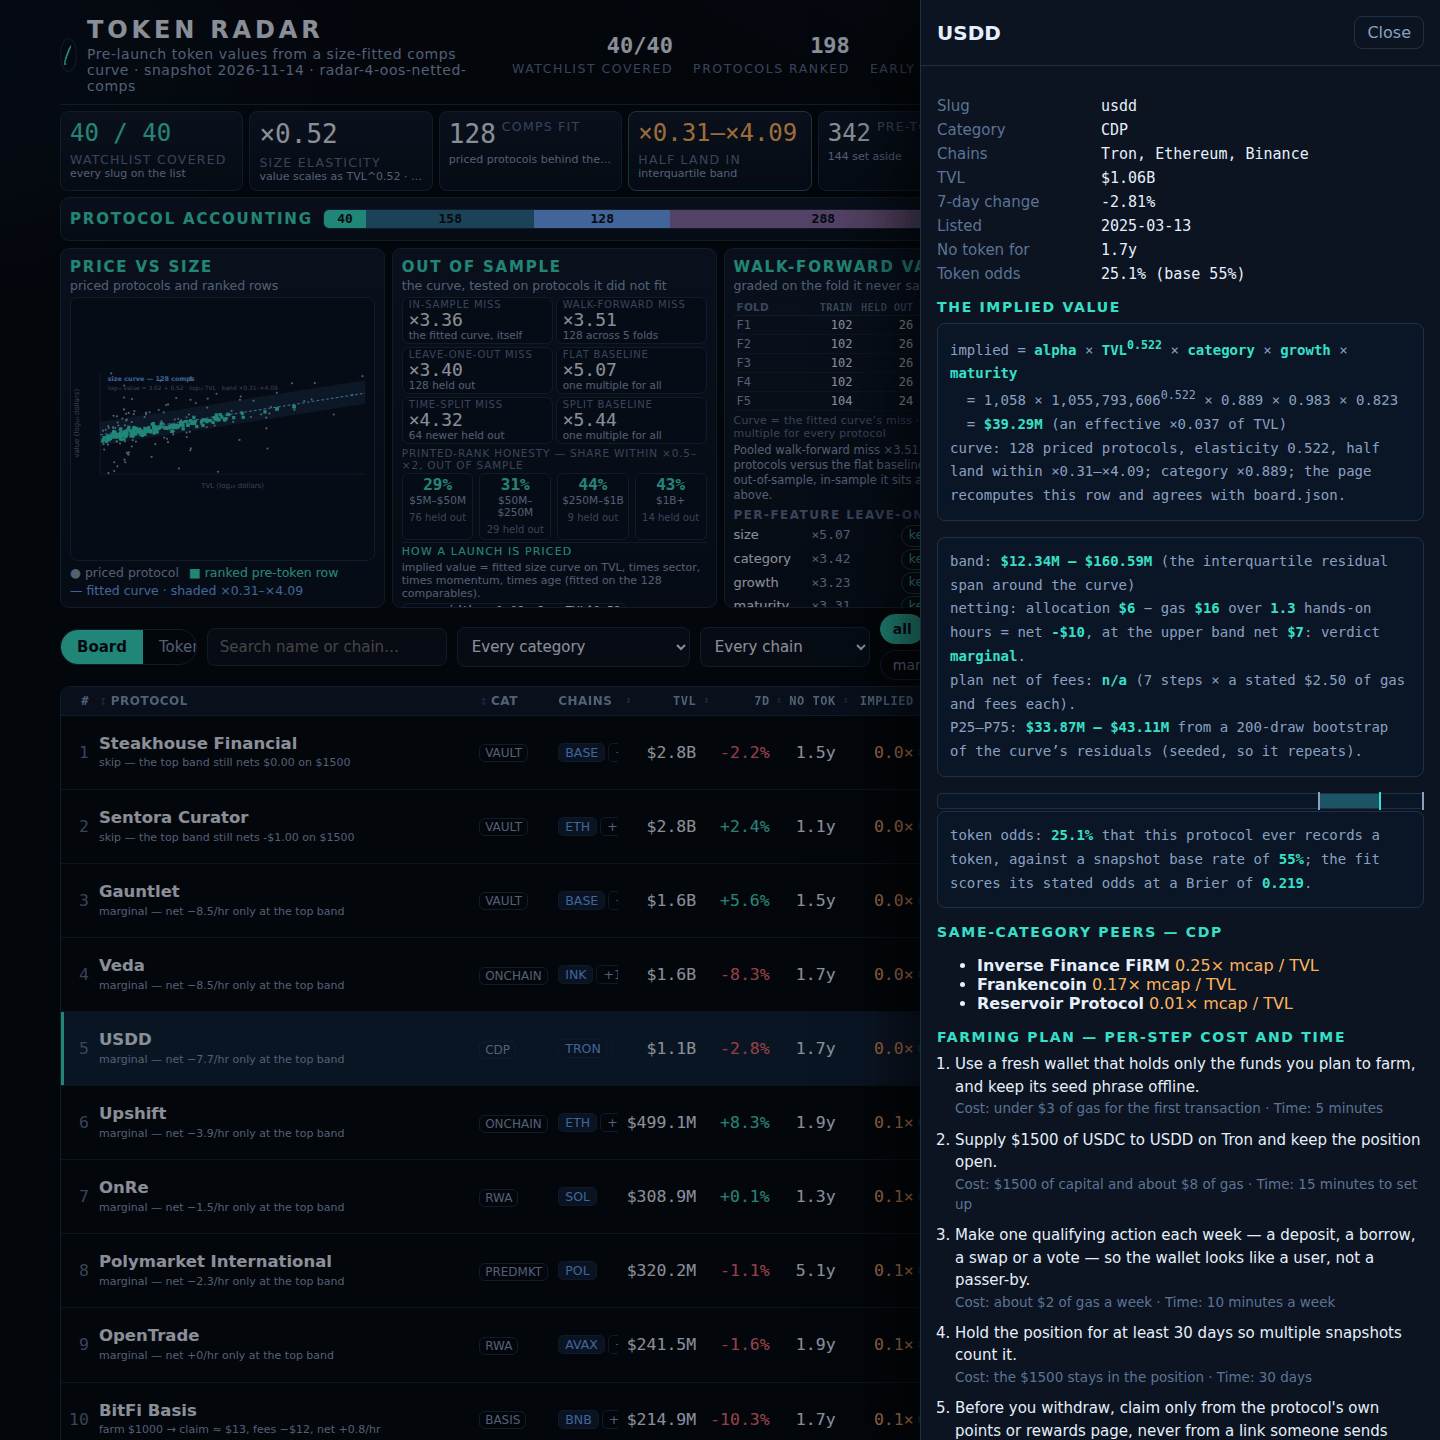
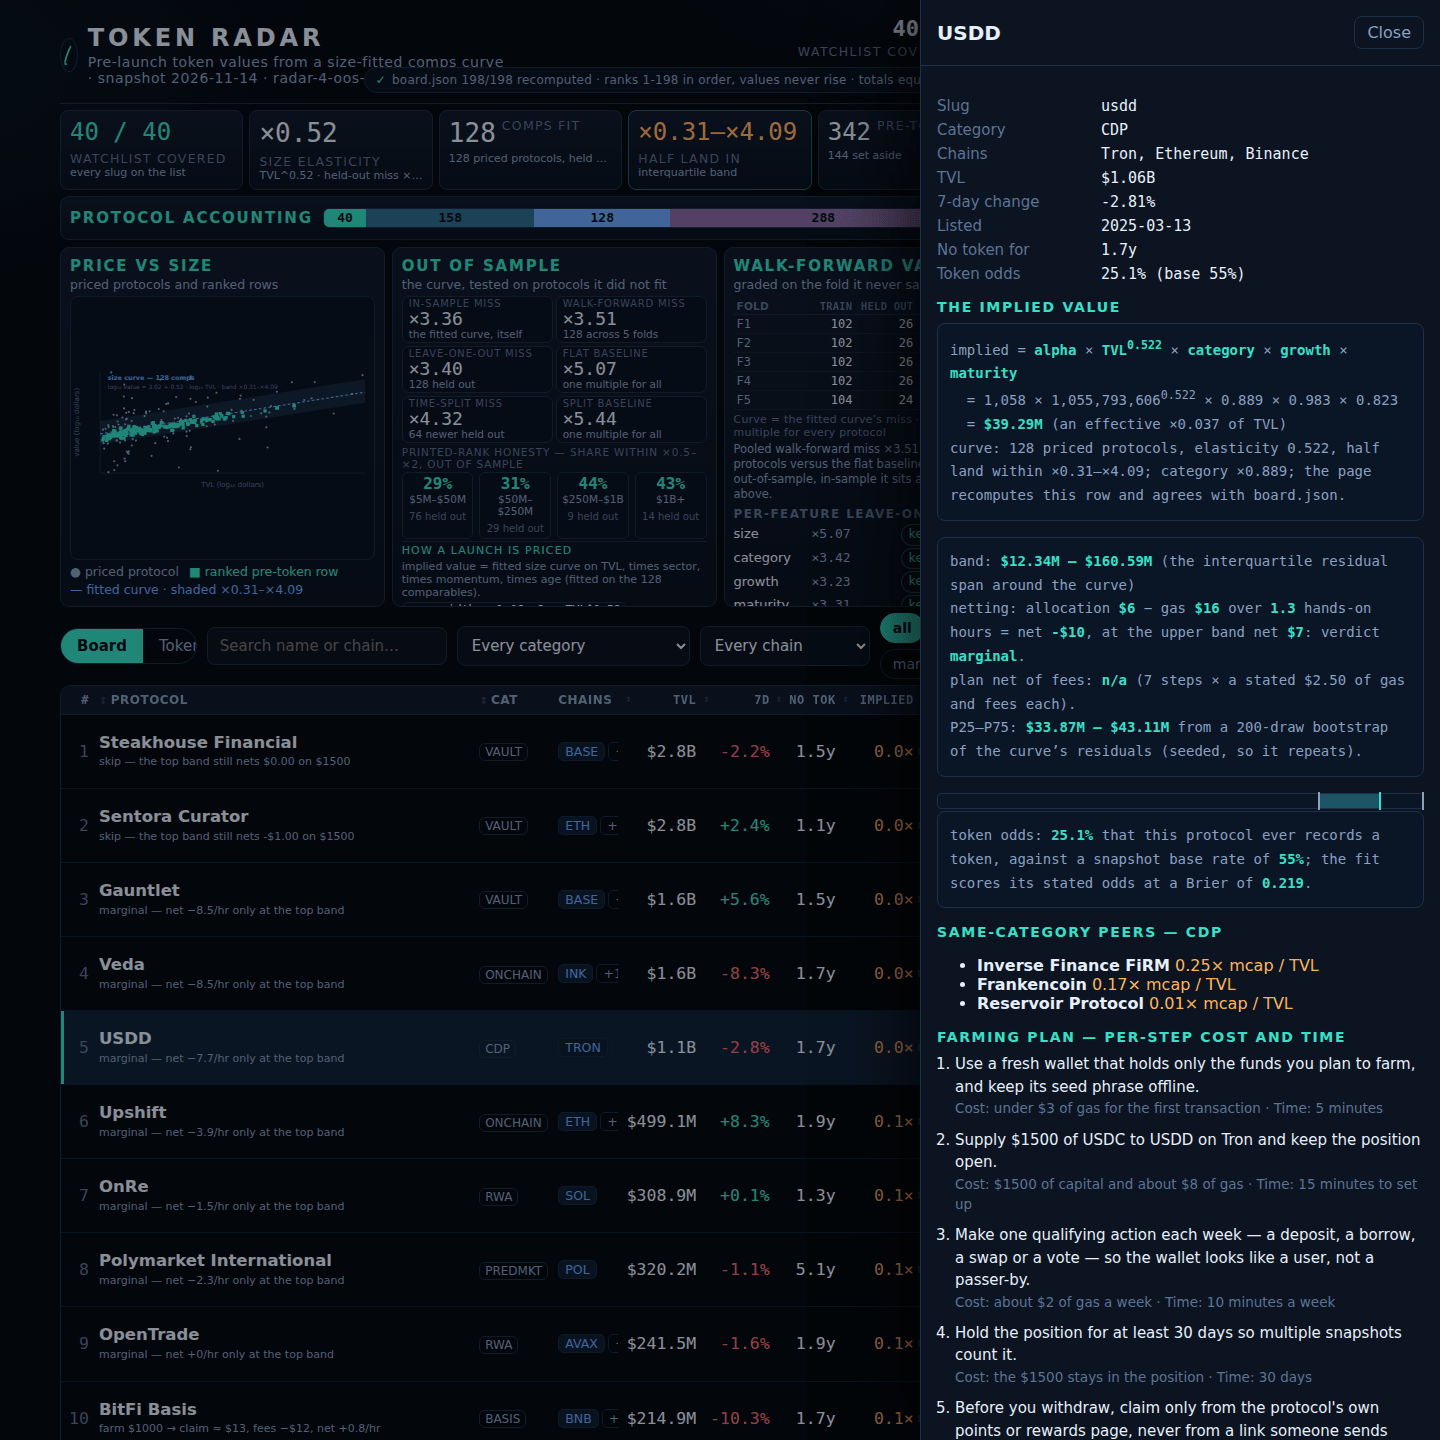
screenshots: fix16 verified+quantized (stats wrap)

diff --git a/dashboard/app.css b/dashboard/app.css
@@ -31,7 +31,7 @@ header.masthead { display: flex; flex-wrap: nowrap; gap: calc(var(--u) * 3); ali
 .tick::after { content: ""; position: absolute; inset: 6px; border-radius: 50%; border: 2px solid var(--accent); border-top-color: transparent; border-right-color: transparent; transform: rotate(20deg); } /* sweeping needle */
 h1 { font-size: 24px; margin: 0; letter-spacing: .16em; text-transform: uppercase; font-weight: 700; } /* product name */
 .tag { color: var(--muted); font-size: 14px; letter-spacing: .04em; margin-top: 2px; white-space: normal; overflow-wrap: break-word; max-width: 100%; } /* subtitle line — wraps at a word break inside the brand cluster if the row is tight, so it stays fully readable and can never ride into the KPI text */
-.stats { display: flex; gap: calc(var(--u) * 2.5); flex-wrap: nowrap; align-items: center; flex: 0 0 auto; } /* three large KPIs sit inline in the hero band */
+.stats { display: flex; gap: calc(var(--u) * 1.25); row-gap: 7px; flex-wrap: wrap; align-items: center; justify-content: flex-end; flex: 0 1 auto; min-width: 0; max-width: 100%; } /* three large KPIs sit inline in the hero band */
 .stat { text-align: right; } /* right aligned figures */
 .stat b { display: block; font-family: var(--mono); font-size: 22px; color: var(--ink); } /* big number */
 .stat span { font-size: 12.5px; text-transform: uppercase; letter-spacing: .12em; color: var(--dim); } /* small caption */
